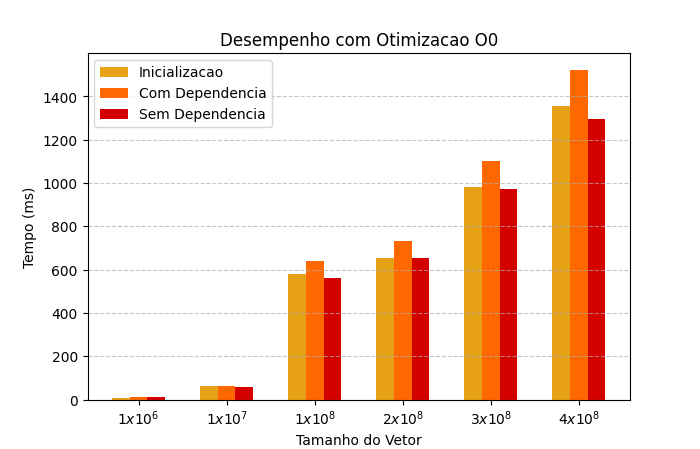
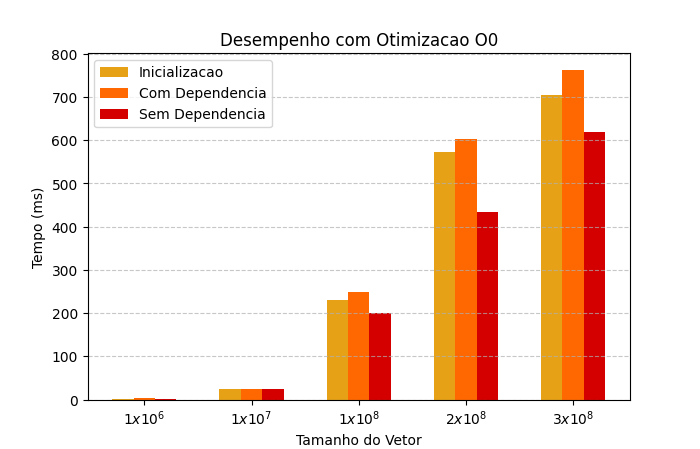
add new config

diff --git a/25-03/graph.py b/25-03/graph.py
@@ -1,25 +1,25 @@
 import matplotlib.pyplot as plt
 import numpy as np
 
-# Dados sem os dois primeiros elementos
-tamanhos = [10**6, 10**7, 10**8, 2*10**8, 3*10**8, 4*10**8]
+# Novos dados
+tamanhos = [10**6, 10**7, 10**8, 2*10**8, 3*10**8]
 
 tempos_O0 = {
-    "Inicializacao": [9, 62, 581, 656, 984, 1357],
-    "Com Dependencia": [10, 63, 639, 731, 1101, 1523],
-    "Sem Dependencia": [11, 57, 560, 653, 972, 1296]
+    "Inicializacao": [2, 24, 231, 574, 704],
+    "Com Dependencia": [3, 24, 249, 603, 763],
+    "Sem Dependencia": [2, 25, 200, 433, 619]
 }
 
 tempos_O2 = {
-    "Inicializacao": [2, 15, 66, 117, 119, 160],
-    "Com Dependencia": [2, 20, 98, 192, 172, 228],
-    "Sem Dependencia": [4, 21, 164, 317, 294, 384]
+    "Inicializacao": [0, 3, 34, 68, 96],
+    "Com Dependencia": [0, 5, 35, 70, 102],
+    "Sem Dependencia": [1, 5, 36, 72, 104]
 }
 
 tempos_O3 = {
-    "Inicializacao": [1, 17, 66, 121, 119, 159],
-    "Com Dependencia": [2, 26, 98, 193, 174, 229],
-    "Sem Dependencia": [3, 44, 162, 312, 288, 395]
+    "Inicializacao": [0, 3, 33, 65, 98],
+    "Com Dependencia": [0, 4, 34, 69, 101],
+    "Sem Dependencia": [0, 5, 35, 73, 104]
 }
 
 def format_label(value):
@@ -29,12 +29,12 @@ def format_label(value):
 
 def plot_bar_chart(tamanhos, tempos, title):
     x = np.arange(len(tamanhos))
-    width = 0.2  # Reduzindo a largura das barras
+    width = 0.2  # Largura das barras
     
-    fig, ax = plt.subplots(figsize=(7, 4.5))  # Reduzindo o tamanho do gráfico
-    ax.bar(x - width, tempos["Inicializacao"], width, label="Inicializacao", color='#E6A117')  # Amarelo queimado vivo
-    ax.bar(x, tempos["Com Dependencia"], width, label="Com Dependencia", color='#FF6700')  # Laranja queimado vivo
-    ax.bar(x + width, tempos["Sem Dependencia"], width, label="Sem Dependencia", color='#D40000')  # Vermelho vivo
+    fig, ax = plt.subplots(figsize=(7, 4.5))
+    ax.bar(x - width, tempos["Inicializacao"], width, label="Inicializacao", color='#E6A117')
+    ax.bar(x, tempos["Com Dependencia"], width, label="Com Dependencia", color='#FF6700')
+    ax.bar(x + width, tempos["Sem Dependencia"], width, label="Sem Dependencia", color='#D40000')
     
     ax.set_xlabel("Tamanho do Vetor")
     ax.set_ylabel("Tempo (ms)")

diff --git a/25-03/task2.cpp b/25-03/task2.cpp
@@ -6,7 +6,7 @@ using namespace std;
 using namespace chrono;
 
 int main() {
-    vector<int> testes = {1000, 10000, 100000, 1000000, 10000000, 1000000000, 200000000, 30000000, 400000000};
+    vector<int> testes = {300000000};
 
     for (int N : testes) {
         vector<int> vec(N);
